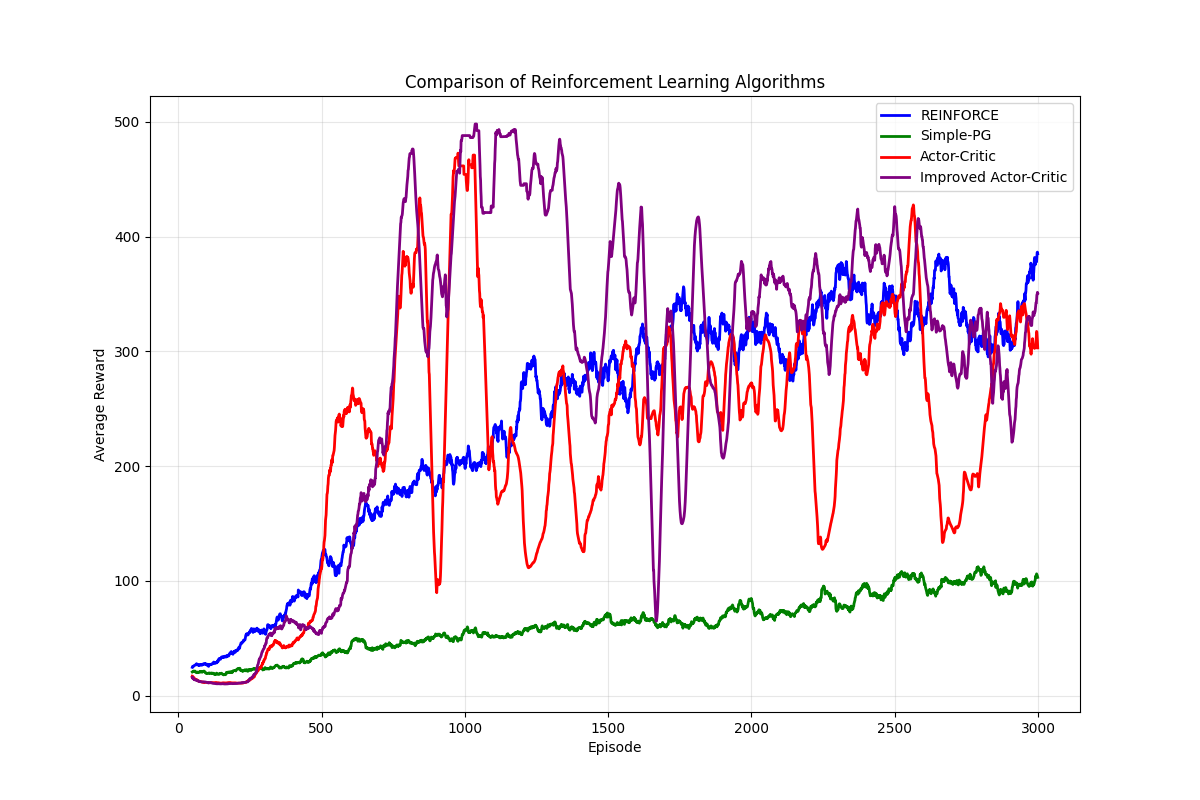
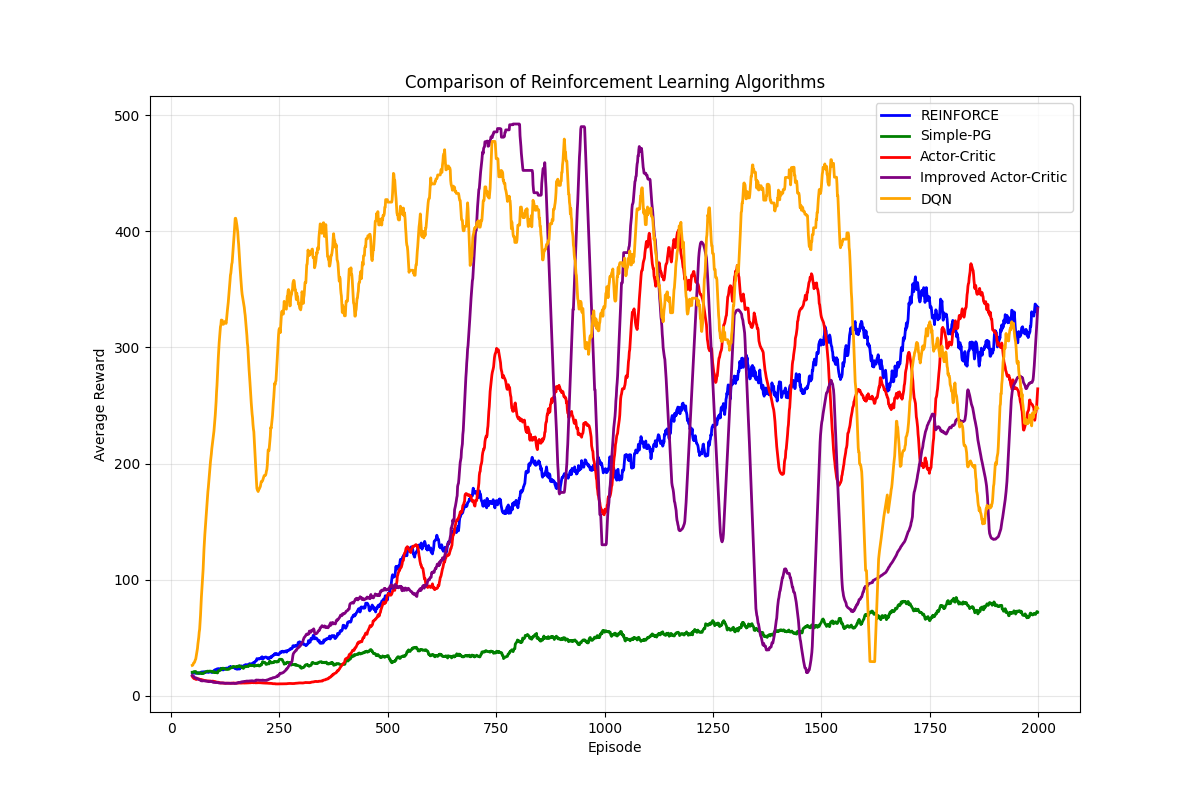
DQNエージェントと関連クラスを追加し、強化学習の訓練機能を実装

diff --git a/ch09/comparison.py b/ch09/comparison.py
@@ -7,6 +7,53 @@ import dezero.layers as L
 import matplotlib.pyplot as plt
 import copy
 import random
+from collections import deque  # DQN用に追加
+
+
+# DQN用のReplayBufferクラス
+class ReplayBuffer:
+    """経験再生バッファ - 学習の安定性向上のため過去の経験を保存"""
+    def __init__(self, buffer_size, batch_size):
+        self.buffer = deque(maxlen=buffer_size)  # 最大サイズを超えると古いデータから削除
+        self.batch_size = batch_size
+
+    def add(self, state, action, reward, next_state, done):
+        """新しい経験をバッファに追加"""
+        data = (state, action, reward, next_state, done)
+        self.buffer.append(data)
+
+    def __len__(self):
+        """バッファに保存されているデータ数を返す"""
+        return len(self.buffer)
+
+    def get_batch(self):
+        """バッファからランダムにバッチサイズ分のデータを取り出す"""
+        data = random.sample(self.buffer, self.batch_size)
+
+        # データを種類ごとに分けて配列化
+        state = np.stack([x[0] for x in data])
+        action = np.array([x[1] for x in data])
+        reward = np.array([x[2] for x in data])
+        next_state = np.stack([x[3] for x in data])
+        done = np.array([x[4] for x in data]).astype(np.int32)
+        return state, action, reward, next_state, done
+
+
+# DQN用のQNetクラス
+class QNet(Model):
+    """Q関数をニューラルネットワークで近似するクラス"""
+    def __init__(self, action_size):
+        super().__init__()
+        self.l1 = L.Linear(128)  # 第1層 - 128ユニット
+        self.l2 = L.Linear(128)  # 第2層 - 128ユニット
+        self.l3 = L.Linear(action_size)  # 出力層 - 行動数分のユニット
+
+    def forward(self, x):
+        """順伝播計算 - 状態から各行動のQ値を計算"""
+        x = F.relu(self.l1(x))  # 活性化関数ReLU
+        x = F.relu(self.l2(x))
+        x = self.l3(x)  # 出力層は活性化関数なし
+        return x
 
 
 # Policy Network (共通): 方策（行動選択確率）を表現するニューラルネットワーク
@@ -41,6 +88,101 @@ class ValueNet(Model):
         # 出力層はそのまま（状態価値）
         x = self.l2(x)
         return x
+
+
+# 新たに追加するDQNエージェントクラス
+class DQNAgent:
+    """DQNによる強化学習エージェント"""
+    def __init__(self, lr=0.0005, gamma=0.98, action_size=2):
+        # ハイパーパラメータ設定
+        self.gamma = gamma  # 割引率
+        self.lr = lr  # 学習率
+        self.buffer_size = 10000  # リプレイバッファのサイズ
+        self.batch_size = 32  # バッチサイズ
+        self.action_size = action_size  # 行動の種類数（CartPoleでは左右の2種類）
+
+        # エプシロンを初期値から徐々に減少させる
+        self.epsilon_start = 1.0  # 初期値を1.0に変更
+        self.epsilon_end = 0.05   # 最終的に0.05まで減少
+        self.epsilon_decay = 0.999  # 0.995から緩やかに
+        self.epsilon = self.epsilon_start
+
+        # 各コンポーネントの初期化
+        self.replay_buffer = ReplayBuffer(self.buffer_size, self.batch_size)
+        self.qnet = QNet(self.action_size)  # メインのQ-Network
+        self.qnet_target = QNet(self.action_size)  # ターゲットQ-Network
+        # 初期時点でターゲットネットワークを同期
+        self.qnet_target = copy.deepcopy(self.qnet)
+        self.optimizer = optimizers.Adam(self.lr)  # オプティマイザ
+        self.optimizer.setup(self.qnet)
+        
+        # 他のエージェントと統一するためのステップカウンター
+        self.total_steps = 0
+
+    def get_action(self, state):
+        """状態に基づいて行動を選択（ε-greedy法）"""
+        # Gym環境からの状態がタプルで返される場合、最初の要素のみを使用
+        if isinstance(state, tuple):
+            state = state[0]
+            
+        if np.random.rand() < self.epsilon:
+            # εの確率でランダム行動
+            action = np.random.choice(self.action_size)
+            # 他のエージェントと同じインターフェースのために、ダミーの確率値を返す
+            prob = 1.0 / self.action_size  # 一様分布の確率
+            return action, prob
+        else:
+            # 1-εの確率でQ値最大の行動
+            state = state[np.newaxis, :]  # バッチ次元を追加
+            qs = self.qnet(state)  # Q値を計算
+            action = qs.data.argmax()  # Q値が最大の行動を返す
+            # 他のエージェントと同じインターフェースのために、ダミーの確率値を返す
+            prob = 1.0  # 確定的な選択を表す確率
+            return action, prob
+
+    def update(self, state, action, reward, next_state, done):
+        """経験に基づいてQ関数を更新"""
+        # ステップカウンタの更新
+        self.total_steps += 1
+        
+        # エプシロン減衰
+        self.epsilon = max(self.epsilon_end, self.epsilon * self.epsilon_decay)
+        
+        # 経験をリプレイバッファに追加
+        self.replay_buffer.add(state, action, reward, next_state, done)
+        if len(self.replay_buffer) < self.batch_size:
+            return  # バッファのデータが不足していれば更新しない
+
+        # リプレイバッファからデータをサンプリング
+        state, action, reward, next_state, done = self.replay_buffer.get_batch()
+        
+        # 現在のQ値を計算
+        qs = self.qnet(state)
+        q = qs[np.arange(self.batch_size), action]  # 実際に選んだ行動のQ値
+
+        # ターゲットQ値を計算（TD誤差の目標値）
+        next_qs = self.qnet_target(next_state)
+        next_q = next_qs.max(axis=1)  # 次の状態で最大のQ値を取得
+        next_q.unchain()  # 勾配計算の停止（ターゲットは固定）
+        target = reward + (1 - done) * self.gamma * next_q  # ベルマン方程式
+
+        # 損失関数の計算と最適化
+        loss = F.mean_squared_error(q, target)  # MSE損失
+        self.qnet.cleargrads()  # 勾配のリセット
+        loss.backward()  # 誤差逆伝播
+        self.optimizer.update()  # パラメータ更新
+
+    def sync_qnet(self):
+        """ターゲットネットワークを現在のネットワークで同期"""
+        self.qnet_target = copy.deepcopy(self.qnet)
+        
+    def reset(self):
+        """エピソード間の処理（何もしない）"""
+        pass
+
+    def add(self, reward, prob):
+        """REINFORCEなどと互換性を持たせるためのダミーメソッド"""
+        pass
 
 
 # REINFORCE Agent: REINFORCEアルゴリズムの実装
@@ -395,7 +537,7 @@ class ImprovedActorCriticAgent:
         
         # エントロピー計算（自己エントロピーのみ簡単に計算）
         pi_out = self.pi(state)
-        current_entropy_coef = max(0.0001, self.entropy_coef * (0.9999 ** self.total_steps))
+        current_entropy_coef = max(0.0005, self.entropy_coef * (0.99995 ** self.total_steps))
         entropy = -F.sum(pi_out * F.log(pi_out + 1e-8)) * current_entropy_coef
         
         loss_pi = -F.log(action_prob) * delta + entropy
@@ -442,6 +584,13 @@ def train(agent, env, episodes, decay_rate=0.9995):
                 agent.add(reward, prob)
             elif isinstance(agent, ActorCriticAgent):
                 agent.update(state, prob, reward, next_state, done)
+            # train関数内のDQNの処理部分
+            elif isinstance(agent, DQNAgent):
+                # DQNの更新
+                agent.update(state, action, reward, next_state, done)
+                # ステップ数に基づいてターゲットネットワークを同期（定期的に）
+                if agent.total_steps % 20 == 0:  # 20ステップごとに同期
+                    agent.sync_qnet()
             elif isinstance(agent, ImprovedActorCriticAgent):
                 # 経験バッファに保存
                 agent.store_experience(state, prob, reward, next_state, done)
@@ -471,14 +620,53 @@ def train(agent, env, episodes, decay_rate=0.9995):
             
     return reward_history
 
+
+# DQN用の訓練関数
+def train_dqn(agent, env, episodes, sync_interval=20):
+    reward_history = []
+    
+    for episode in range(episodes):
+        state = env.reset()
+        if isinstance(state, tuple):
+            state = state[0]
+        done = False
+        total_reward = 0
+        step = 0
+        
+        while not done:
+            action, _ = agent.get_action(state)  # DQNはprobを返さないのでアンダースコア
+            
+            try:
+                next_state, reward, terminated, truncated, info = env.step(action)
+                done = terminated or truncated
+            except ValueError:
+                next_state, reward, done, info = env.step(action)
+                
+            # DQNの更新
+            agent.update(state, action, reward, next_state, done)
+            
+            state = next_state
+            total_reward += reward
+            step += 1
+            
+            # ターゲットネットワークの同期
+            if step % sync_interval == 0:
+                agent.sync_qnet()
+                
+        reward_history.append(total_reward)
+        if episode % 100 == 0:
+            print(f"episode: {episode}, total reward: {total_reward:.1f}")
+            
+    return reward_history
+
 # 移動平均の計算関数
 def moving_average(data, window_size):
     """指定されたウィンドウサイズでの移動平均を計算"""
     weights = np.ones(window_size) / window_size
     return np.convolve(data, weights, mode='valid')
 
-# メイン関数
-def main(episodes=500):
+# メイン関数修正
+def main(episodes=1000):
     """各アルゴリズムを実行して比較"""
     
     # 環境の作成
@@ -492,6 +680,7 @@ def main(episodes=500):
     simple_pg_agent = SimplePGAgent()
     actor_critic_agent = ActorCriticAgent()
     improved_ac_agent = ImprovedActorCriticAgent()
+    dqn_agent = DQNAgent()  # DQNエージェントを追加
     
     # 各エージェントのトレーニング
     print("トレーニング開始: REINFORCE")
@@ -506,6 +695,10 @@ def main(episodes=500):
     print("トレーニング開始: Improved Actor-Critic")
     improved_ac_rewards = train(improved_ac_agent, env, episodes)
     
+    print("トレーニング開始: DQN")
+    # train_dqnではなくtrainを使用する（競合を避ける）
+    dqn_rewards = train(dqn_agent, env, episodes)
+    
     # 結果のプロット
     plt.figure(figsize=(12, 8))
     
@@ -513,10 +706,11 @@ def main(episodes=500):
         "REINFORCE": reinforce_rewards,
         "Simple-PG": simple_pg_rewards,
         "Actor-Critic": ac_rewards,
-        "Improved Actor-Critic": improved_ac_rewards
+        "Improved Actor-Critic": improved_ac_rewards,
+        "DQN": dqn_rewards  # DQNの結果を追加
     }
     
-    colors = ['blue', 'green', 'red', 'purple']
+    colors = ['blue', 'green', 'red', 'purple', 'orange']  # 色を1つ追加
     window_size = 50
     
     # 各アルゴリズムの移動平均をプロット
@@ -541,4 +735,4 @@ def main(episodes=500):
 
 # スクリプトを実行
 if __name__ == "__main__":
-    main(episodes=3000)
+    main(episodes=2000)
